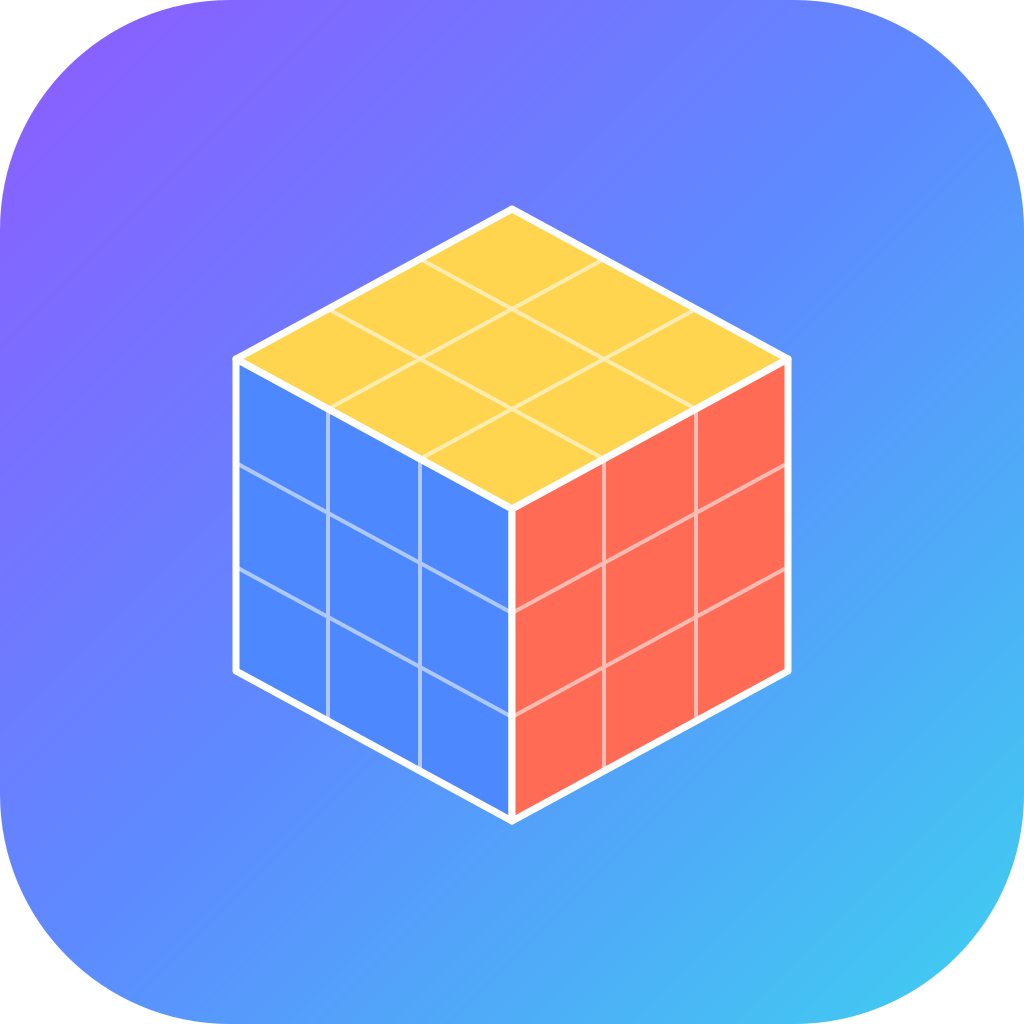
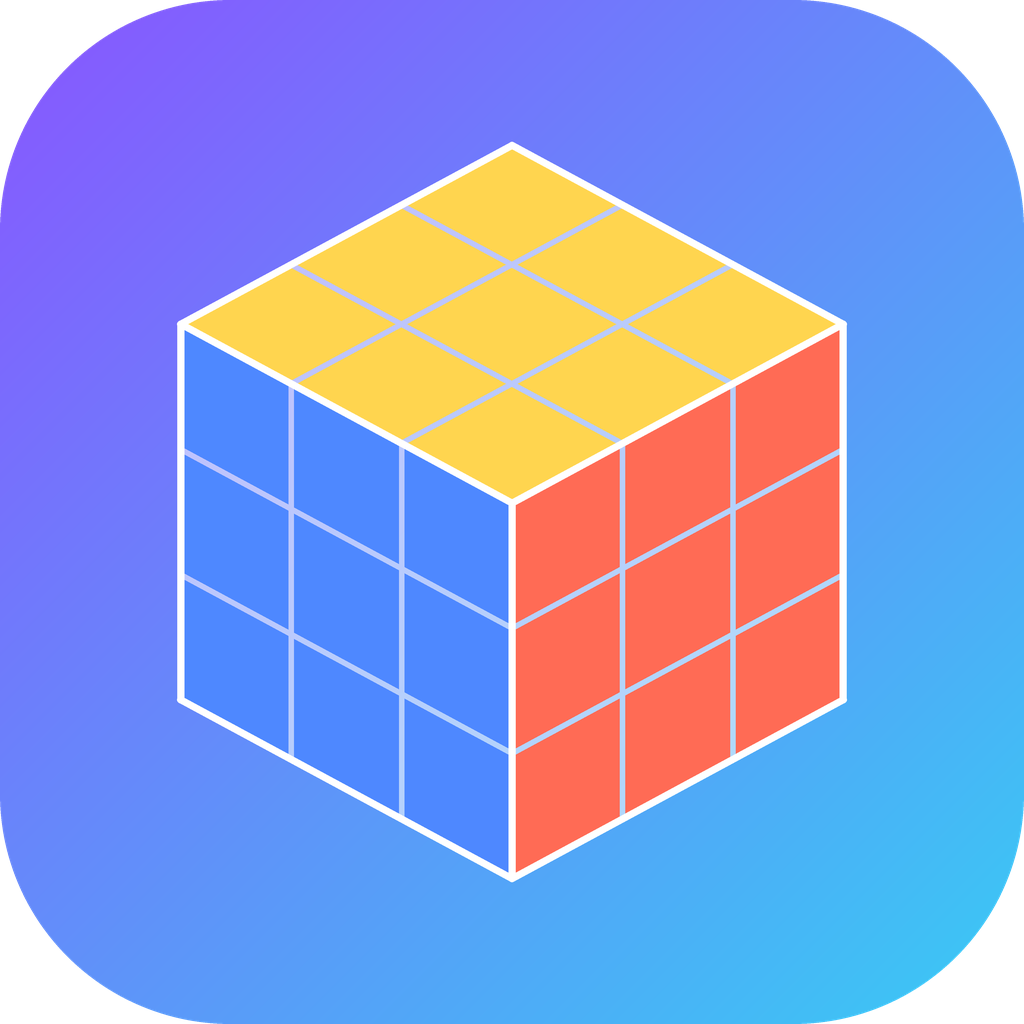
feat(app): 放大应用图标魔方并重写图标生成脚本
- 魔方占幅放大 1.2 倍（557x617 -> 667x739），仍在圆形裁切安全区内
- 重写 design/gen_app_icon.py：逆向复原全息渐变设计并参数化 CUBE_SCALE，
  旧脚本仍是废弃的薄荷绿版本、与现网图标不符
- 同步更新根目录 app_icon_1024.png 与 AppScope app_icon
- 移除 design/ 下冗余的 app_icon_1024.png 副本

Changed region(s): [[0.1562, 0.125, 0.8438, 0.875]]

diff --git a/design/gen_app_icon.py b/design/gen_app_icon.py
@@ -1,131 +1,122 @@
 # -*- coding: utf-8 -*-
-"""生成酷比魔方 app 图标（1024x1024 PNG，薄荷绿主题，元服务圆形裁切安全区）。
+"""生成酷比魔方 app 图标（1024x1024 PNG，全息渐变背景 + 等距魔方）。
+
+设计还原自 2026-10 上线的全息渐变版图标：左上紫 -> 右下青对角渐变，
+圆角矩形遮罩（透明四角），白描边等距魔方（黄顶/蓝左/红右），半透明白格线。
 
 用法: python gen_app_icon.py [输出路径]
 """
-import math
 import sys
 
-from PIL import Image, ImageDraw, ImageFilter
+from PIL import Image, ImageDraw
 
 SIZE = 1024          # 最终输出尺寸
 S = 4                # 超采样倍数（抗锯齿）
 W = SIZE * S
 
-INK = (24, 45, 42)        # #182D2A 深墨绿（格线）
-CORAL = (224, 101, 79)    # #E0654F 珊瑚红（主题 #A34238 提亮）
-LIME = (213, 244, 120)    # #D5F478 青柠高亮
+# ---- 背景渐变（按现图最小二乘拟合，方向为 (1,1) 对角线）----
+GRAD_TL = (137, 85, 255)
+GRAD_BR = (57, 202, 244)
+CORNER_RADIUS = 230  # 圆角矩形遮罩半径
+
+# ---- 魔方几何（描边中心线，1024 尺度；1.0 为原版占幅）----
+CUBE_SCALE = 1.20
+VX = 276 * CUBE_SCALE   # 顶面菱形半宽
+VY = 149 * CUBE_SCALE   # 顶面菱形半高
+H = 313 * CUBE_SCALE    # 侧面高度
+OUTLINE_W = 6 * CUBE_SCALE
+GRID_W = 4.5 * CUBE_SCALE
+GRID_ALPHA = 140        # 格线白色不透明度（约 55%）
+
+TOP_COLOR = (255, 213, 79)
+LEFT_COLOR = (78, 136, 255)
+RIGHT_COLOR = (255, 107, 85)
+WHITE = (255, 255, 255)
 
 
-def lerp(c1, c2, t):
-    return tuple(round(a + (b - a) * t) for a, b in zip(c1, c2))
+def clamp(v):
+    return max(0, min(255, round(v)))
 
 
 def main(out_path):
-    img = Image.new("RGB", (W, W), (251, 253, 249))
-
-    # ---- 背景：垂直渐变 米白 -> 浅薄荷 ----
-    top, bottom = (251, 253, 249), (214, 232, 220)
-    grad = Image.new("RGB", (1, W))
+    # ---- 背景：沿对角线的线性渐变 ----
+    img = Image.new("RGB", (W, W))
+    px = img.load()
+    denom = 2 * (W - 1)
     for y in range(W):
-        grad.putpixel((0, y), lerp(top, bottom, y / (W - 1)))
-    img.paste(grad.resize((W, W)))
+        for x in range(W):
+            t = (x + y) / denom
+            px[x, y] = tuple(clamp(a + (b - a) * t) for a, b in zip(GRAD_TL, GRAD_BR))
 
-    # ---- 魔方身后的柔光 ----
-    glow = Image.new("L", (W, W), 0)
-    gd = ImageDraw.Draw(glow)
-    cx0, cy0, r0 = 512 * S, 470 * S, 330 * S
-    gd.ellipse([cx0 - r0, cy0 - r0, cx0 + r0, cy0 + r0], fill=110)
-    glow = glow.filter(ImageFilter.GaussianBlur(120 * S // 4))
-    img.paste(Image.new("RGB", (W, W), (255, 255, 255)), (0, 0), glow)
+    # ---- 魔方（独立图层，便于半透明格线混合）----
+    layer = Image.new("RGBA", (W, W), (0, 0, 0, 0))
 
-    # ---- 底部投影 ----
-    shadow = Image.new("L", (W, W), 0)
-    sd = ImageDraw.Draw(shadow)
-    sx, sy, rx, ry = 512 * S, 790 * S, 260 * S, 40 * S
-    sd.ellipse([sx - rx, sy - ry, sx + rx, sy + ry], fill=60)
-    shadow = shadow.filter(ImageFilter.GaussianBlur(45 * S // 4))
-    img.paste(Image.new("RGB", (W, W), INK), (0, 0), shadow)
-
-    draw = ImageDraw.Draw(img)
-
-    # ---- 等距立方体几何 ----
-    cx, cy = 512 * S, 505 * S
-    vx, vy, h = 270 * S, 135 * S, 260 * S
+    vx, vy, h = VX * S, VY * S, H * S
+    cx = 512 * S
+    cy = 512 * S - (h - 2 * vy) / 2  # 让魔方整体垂直居中
     N = (cx, cy - 2 * vy)
     E = (cx + vx, cy - vy)
-    Sc = (cx, cy)                       # 顶面朝下的顶点
+    Sc = (cx, cy)                    # 顶面朝下的前顶点
     Wp = (cx - vx, cy - vy)
-    Sd = (cx, cy + h)                   # 底部顶点
-    Ed = (E[0], E[1] + h)
-    Wd = (Wp[0], Wp[1] + h)
+    Sd = (cx, cy + h)
+    Ed = (cx + vx, cy - vy + h)
+    Wd = (cx - vx, cy - vy + h)
 
-    def quad(p0, p1, p2, p3):
-        return [p0, p1, p2, p3]
+    lw = round(OUTLINE_W * S)
+    gw = round(GRID_W * S)
 
-    def scale_about(pts, s):
-        mx = sum(p[0] for p in pts) / len(pts)
-        my = sum(p[1] for p in pts) / len(pts)
-        return [(mx + (p[0] - mx) * s, my + (p[1] - my) * s) for p in pts]
+    draw = ImageDraw.Draw(layer)
+    draw.polygon([N, E, Sc, Wp], fill=TOP_COLOR)
+    draw.polygon([Wp, Sc, Sd, Wd], fill=LEFT_COLOR)
+    draw.polygon([Sc, E, Ed, Sd], fill=RIGHT_COLOR)
 
-    TILE_SHRINK = 0.85  # 留出墨绿色格缝
-
-    def draw_face(origin, ua, ub, color_at, corners):
-        """先铺墨绿底（形成格缝），再以 origin 为角点沿 ua/ub 方向贴 3x3 贴片。"""
-        draw.polygon(corners, fill=INK)
+    def face_grid(origin, ua, ub):
+        """沿 ua/ub 两方向画 1/3、2/3 处的半透明白格线。"""
+        gdraw = ImageDraw.Draw(layer, "RGBA")
+        grid_fill = (*WHITE, GRID_ALPHA)
         pts = {}
         for i in range(4):
             for j in range(4):
                 pts[(i, j)] = (origin[0] + ua[0] * i / 3 + ub[0] * j / 3,
                                origin[1] + ua[1] * i / 3 + ub[1] * j / 3)
-        for i in range(3):
-            for j in range(3):
-                tile = quad(pts[(i, j)], pts[(i + 1, j)],
-                            pts[(i + 1, j + 1)], pts[(i, j + 1)])
-                draw.polygon(scale_about(tile, TILE_SHRINK),
-                             fill=color_at(i, j))
+        for k in (1, 2):
+            for (p0, p1) in ((pts[(k, 0)], pts[(k, 3)]),
+                             (pts[(0, k)], pts[(3, k)])):
+                gdraw.line([p0, p1], fill=grid_fill, width=gw)
+        dot = gw / 2
+        for i in (1, 2):
+            for j in (1, 2):
+                x, y = pts[(i, j)]
+                gdraw.ellipse([x - dot, y - dot, x + dot, y + dot],
+                              fill=grid_fill)
 
-    # 顶面：近白（原点取底顶点 Sc，方向指向东/西）
-    top_ua = (E[0] - Sc[0], E[1] - Sc[1])
-    top_ub = (Wp[0] - Sc[0], Wp[1] - Sc[1])
-    draw_face(Sc, top_ua, top_ub, lambda i, j: (252, 254, 250), [Sc, E, N, Wp])
+    face_grid(N, (E[0] - N[0], E[1] - N[1]), (Wp[0] - N[0], Wp[1] - N[1]))
+    face_grid(Wp, (Sc[0] - Wp[0], Sc[1] - Wp[1]), (0, h))
+    face_grid(Sc, (E[0] - Sc[0], E[1] - Sc[1]), (0, h))
 
-    # 左面：薄荷绿渐变（上浅下深），中部一块青柠
-    left_ua = (Sc[0] - Wp[0], Sc[1] - Wp[1])
-    left_ub = (0, h)
-    LEFT_LIGHT, LEFT_DARK = (152, 224, 190), (85, 187, 141)
+    # ---- 白色描边：外轮廓六边形 + 三条内侧棱 ----
+    edges = [[N, E], [E, Ed], [Ed, Sd], [Sd, Wd], [Wd, Wp], [Wp, N],
+             [Wp, Sc], [Sc, E], [Sc, Sd]]
+    for p0, p1 in edges:
+        draw.line([p0, p1], fill=WHITE, width=lw)
+    dot = lw / 2
+    for v in (N, E, Sc, Wp, Sd, Ed, Wd):
+        draw.ellipse([v[0] - dot, v[1] - dot, v[0] + dot, v[1] + dot],
+                     fill=WHITE)
 
-    def left_color(i, j):
-        if (i, j) == (1, 2):
-            return LIME
-        return lerp(LEFT_LIGHT, LEFT_DARK, (j + 0.5) / 3)
+    img = img.convert("RGBA")
+    img.alpha_composite(layer)
 
-    draw_face(Wp, left_ua, left_ub, left_color, [Wp, Sc, Sd, Wd])
-
-    # 右面：深绿渐变，中央一块珊瑚红
-    right_ua = (E[0] - Sc[0], E[1] - Sc[1])
-    right_ub = (0, h)
-    RIGHT_LIGHT, RIGHT_DARK = (62, 150, 119), (35, 97, 74)
-
-    def right_color(i, j):
-        if (i, j) == (1, 1):
-            return CORAL
-        return lerp(RIGHT_LIGHT, RIGHT_DARK, (j + 0.5) / 3)
-
-    draw_face(Sc, right_ua, right_ub, right_color, [Sc, E, Ed, Sd])
-
-    # ---- 外轮廓描边 ----
-    outline = [N, E, Ed, Sd, Wd, Wp, N]
-    lw = round(15 * S)
-    draw.line(outline, fill=INK, width=lw, joint="curve")
-    dot = lw // 2
-    for px, py in outline:
-        draw.ellipse([px - dot, py - dot, px + dot, py + dot], fill=INK)
+    # ---- 圆角矩形遮罩（四角透明）----
+    mask = Image.new("L", (W, W), 0)
+    ImageDraw.Draw(mask).rounded_rectangle(
+        [0, 0, W - 1, W - 1], radius=CORNER_RADIUS * S, fill=255)
+    img.putalpha(mask)
 
     # ---- 缩到 1024 并输出 ----
     img = img.resize((SIZE, SIZE), Image.LANCZOS)
     img.save(out_path, "PNG", optimize=True)
-    print(f"saved {out_path} ({SIZE}x{SIZE})")
+    print(f"saved {out_path} ({SIZE}x{SIZE}, cube scale {CUBE_SCALE})")
 
 
 if __name__ == "__main__":
